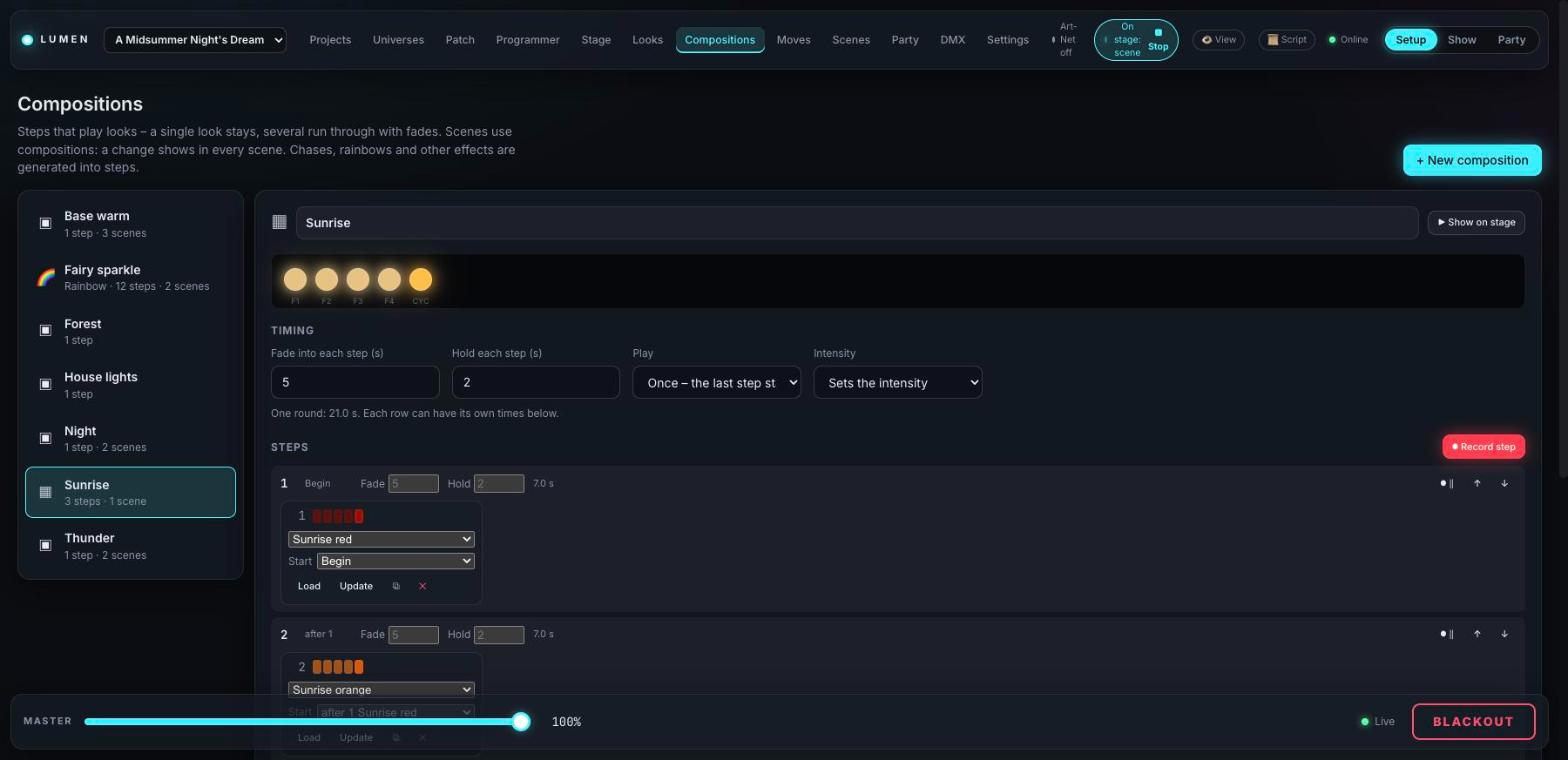
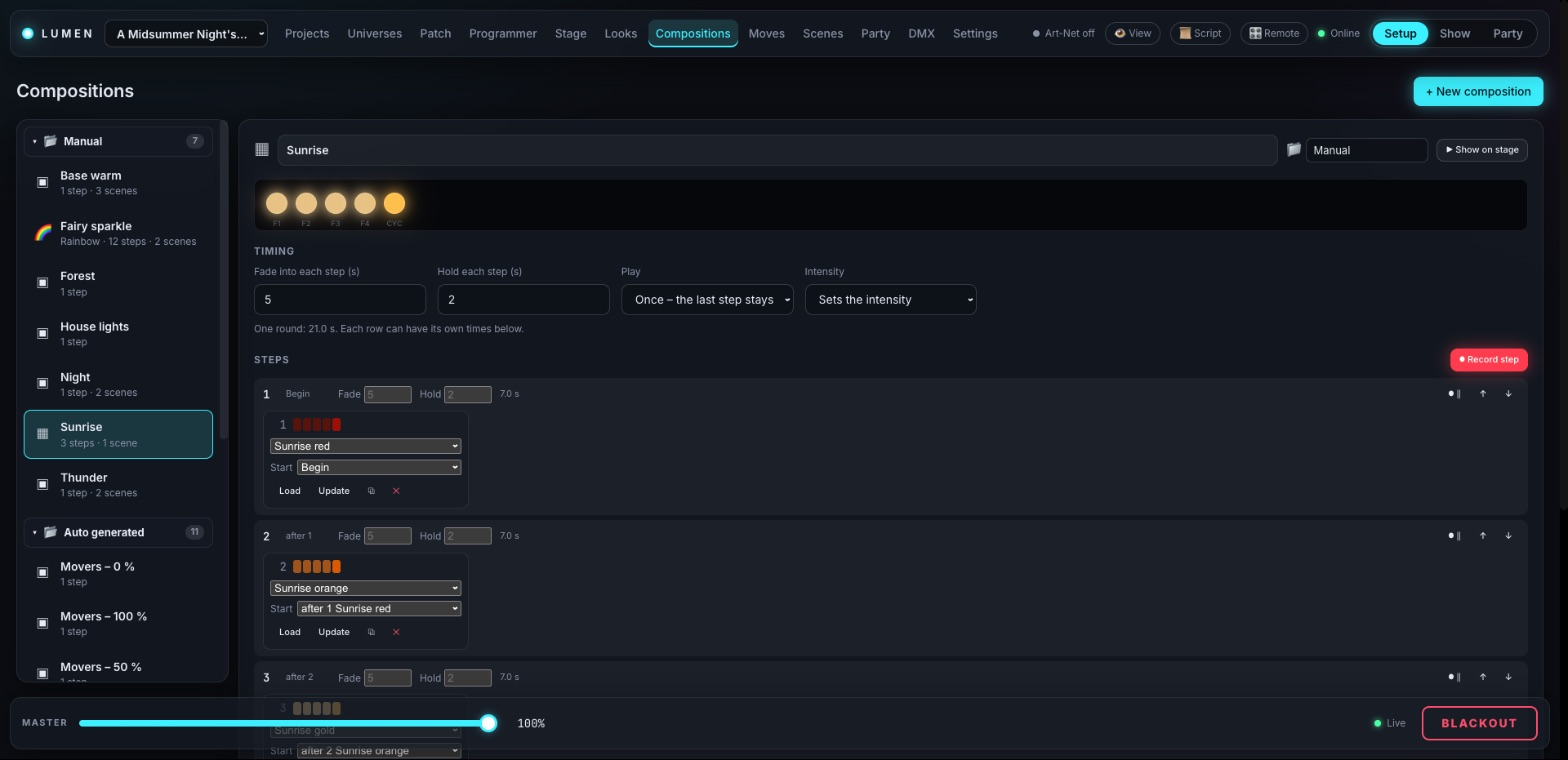
Guide: party pages and pads, quick setup page choice, folders for looks and compositions

diff --git a/index.html b/index.html
@@ -639,7 +639,7 @@ cd lumen-ArtNet
     <h3 id="quick-setup">Quick setup</h3>
     <div class="pair">
       <figure>
-        <img src="images/patch-quick-setup.jpg" width="1440" height="698" alt="Add fixture form for four uplights with the Quick setup box ticked: intensity looks, color looks, party row and party gradients" loading="lazy">
+        <img src="images/patch-quick-setup.jpg" width="1440" height="698" alt="Add fixture form for four backlights with the Quick setup box ticked: intensity looks, color looks with palette, party row, party gradients and a new party page" loading="lazy">
         <figcaption>Tick <strong>Quick setup</strong> while patching …</figcaption>
       </figure>
       <figure>
@@ -659,9 +659,12 @@ cd lumen-ArtNet
       <li><strong>Moves</strong> line, circle and eight for fixtures with pan and tilt. They start around the middle –
         adjust size and position in the <a href="#moves">Moves</a> tab for your stage.</li>
       <li>A <strong>party row</strong> with a button for each look and move, and a row of <strong>gradients</strong> to
-        pick intensity and color by touch – see <a href="#party">party mode</a>. One button switches all the fixtures,
-        e.g. all four uplights.</li>
+        pick intensity and color by touch – moving heads also get a <strong>pan/tilt pad</strong> there. See
+        <a href="#party">party mode</a>. One button switches all the fixtures, e.g. all four uplights.</li>
     </ul>
+    <p><strong>Party page</strong> chooses the tab the rows go on: a page of your choice, a <em>new page</em> named
+      after the setup, or the first page with room. The looks and compositions go into the folder
+      <strong>Auto generated</strong>, so they do not mix with the ones you build by hand.</p>
     <figure>
       <img src="images/patch-several.jpg" width="1440" height="698" alt="Patch in the list view with Front 1 to 4 ticked; the side panel shows the four fixtures, their type and the quick setup for all of them, named Front" loading="lazy">
       <figcaption>Several fixtures of one type ticked in the list: one quick setup for all of them.</figcaption>
@@ -670,7 +673,7 @@ cd lumen-ArtNet
       <strong>List</strong> and tick them (shift-click ticks a whole range). If they are all of one type, the side panel
       offers quick setup for all of them together – handy for fixtures patched one by one.</p>
     <p>Lumen remembers on each computer whether the box was ticked. Everything it makes is ordinary – rename, change or
-      delete it like anything you built yourself. If the party matrix is full, nothing is made and Lumen says so.</p>
+      delete it like anything you built yourself. If the chosen page is full, nothing is made and Lumen says so.</p>
 
     <!-- ───────────────────────────────────────────── -->
     <h2 id="stage"><span class="num">07</span>Stage</h2>
@@ -711,7 +714,8 @@ cd lumen-ArtNet
     <h2 id="looks"><span class="num">09</span>Looks</h2>
     <figure>
       <img src="images/looks.jpg" width="1568" height="760" alt="Looks tab with the shared looks and the Warm wash look opened" loading="lazy">
-      <figcaption>"Warm wash" – values for seven fixtures, played by the composition "Base warm".</figcaption>
+      <figcaption>"Warm wash" – values for seven fixtures, played by the composition "Base warm". Quick setup's looks
+        wait in their own folder.</figcaption>
     </figure>
     <p>A look stores fixed values. Record it from the programmer (<strong>⏺ Record look</strong>), bring it back with
       <strong>Load into programmer</strong>, adjust and save with <strong>Update from programmer</strong> – either
@@ -720,13 +724,17 @@ cd lumen-ArtNet
       <li>Every update keeps the previous version: <strong>History</strong> and <strong>↶ Undo</strong> bring it back.</li>
       <li>A look in use cannot be deleted; "Played by …" tells you where it is used.</li>
       <li>Looks never contain pan/tilt – positions belong to <a href="#moves">moves</a>.</li>
+      <li><strong>Folders</strong> sort the list: <em>Manual</em> for your own looks, <em>Auto generated</em> for
+        what quick setup made, or any name you type in <strong>Folder</strong> next to the name. Click a folder to
+        close it.</li>
     </ul>
 
     <!-- ───────────────────────────────────────────── -->
     <h2 id="compositions"><span class="num">10</span>Compositions</h2>
     <figure>
       <img src="images/compositions.jpg" width="1568" height="760" alt="Composition editor for Sunrise with three steps red, orange and gold" loading="lazy">
-      <figcaption>"Sunrise": three steps, each fading in over 5 s and holding 2 s, played once.</figcaption>
+      <figcaption>"Sunrise": three steps, each fading in over 5 s and holding 2 s, played once. The list on the left
+        scrolls on its own and is sorted into folders.</figcaption>
     </figure>
     <p>A composition plays its steps one after another. Each step plays a look.</p>
     <ul>
@@ -741,6 +749,8 @@ cd lumen-ArtNet
         change</em>, <em>rainbow</em>, <em>wave</em> or <em>flicker</em> on a group – the "Fairy sparkle" rainbow in
         the demo was generated on the cyc bar, one step per pixel.</li>
       <li><strong>Show on stage</strong> plays it on the real fixtures to try it out.</li>
+      <li><strong>📁 Folder</strong> next to the name sorts the composition into a folder of the list – like the
+        looks: <em>Manual</em>, <em>Auto generated</em> (quick setup) or your own.</li>
     </ul>
     <p>When the same composition is in two scenes in a row, it keeps running across the GO without a jump – the base
       light does not flicker and a chase does not restart. Tick <strong>Restart at GO</strong> in the scene if you want
@@ -939,25 +949,32 @@ cd lumen-ArtNet
 
     <!-- ───────────────────────────────────────────── -->
     <h2 id="party"><span class="num">15</span>Party mode</h2>
-    <p>For the party after the premiere: no cue list, just a matrix of buttons that switch light on and off.</p>
+    <p>For the party after the premiere: no cue list, just pages of buttons that switch light on and off – filling the
+      whole screen of a tablet, without scrolling.</p>
     <div class="pair">
       <figure>
-        <img src="images/party-setup.jpg" width="1440" height="698" alt="Party tab in setup mode: the matrix with rows for the uplights and movers made by quick setup, the color gradient selected and its settings on the right" loading="lazy">
-        <figcaption>Set up the matrix in the <strong>Party</strong> tab.</figcaption>
+        <img src="images/party-setup.jpg" width="1440" height="698" alt="Party tab in setup mode: the page Movers with buttons, an intensity gradient and a pan/tilt pad two rows high; the pad is selected, its settings on the right" loading="lazy">
+        <figcaption>Set up the pages in the <strong>Party</strong> tab – here the page "Movers" with its pad.</figcaption>
       </figure>
       <figure>
-        <img src="images/party.jpg" width="1440" height="698" alt="Party mode with Warm, the uplight intensity and color gradients, Movers 100 % and Circle switched on" loading="lazy">
-        <figcaption>In party mode tap fields to switch them, touch or drag along a gradient.</figcaption>
+        <img src="images/party.jpg" width="1440" height="698" alt="Party mode on the page Movers: tabs Party and Movers with two fields on each, the intensity gradient and the pan/tilt pad switched on" loading="lazy">
+        <figcaption>In party mode tap fields, drag along a gradient or over the pad; the tabs switch pages.</figcaption>
       </figure>
     </div>
     <ul>
+      <li><strong>Pages</strong>: up to 12, shown as tabs – e.g. one for the room and one for the movers. Add, rename,
+        move and remove them above the matrix. The tabs in party mode show how many fields of a page are on.</li>
       <li>A field plays a <strong>scene</strong>, a <strong>composition</strong> or a <strong>move</strong>, or is just
         a text label. Each has a label, fill and border color and is <strong>toggle</strong> or <strong>flash</strong>.
-        A field can be several columns wide.</li>
+        A field can be several columns wide and several rows high. <strong>Reset field</strong> empties it.</li>
       <li>A <strong>gradient</strong> field sets the intensity (dark to full) or the color (red over orange, yellow,
         green, cyan and blue to violet) of its fixtures: touch a point or drag along it, the marker shows where it is.
         <strong>✕</strong> switches it off; it remembers the point.</li>
-      <li>Fields in the same <strong>group</strong> exclude each other – switch on "Night" and "Warm" goes off. Quick
+      <li>A <strong>pan/tilt pad</strong> points its moving heads where you touch it: left to right is pan, bottom to
+        top is tilt – within the limits set in the patch. Put it in the group of the moves so a move and the pad do
+        not fight over the heads (quick setup does).</li>
+      <li>Fields in the same <strong>group</strong> exclude each other, also across pages – switch on "Night" and
+        "Warm" goes off. Quick
         setup puts the buttons and the gradient of the same kind into one group, so the color gradient replaces the
         color button that was on.</li>
       <li>Where fields collide, the higher value wins. <strong>All off</strong> switches everything off.</li>
